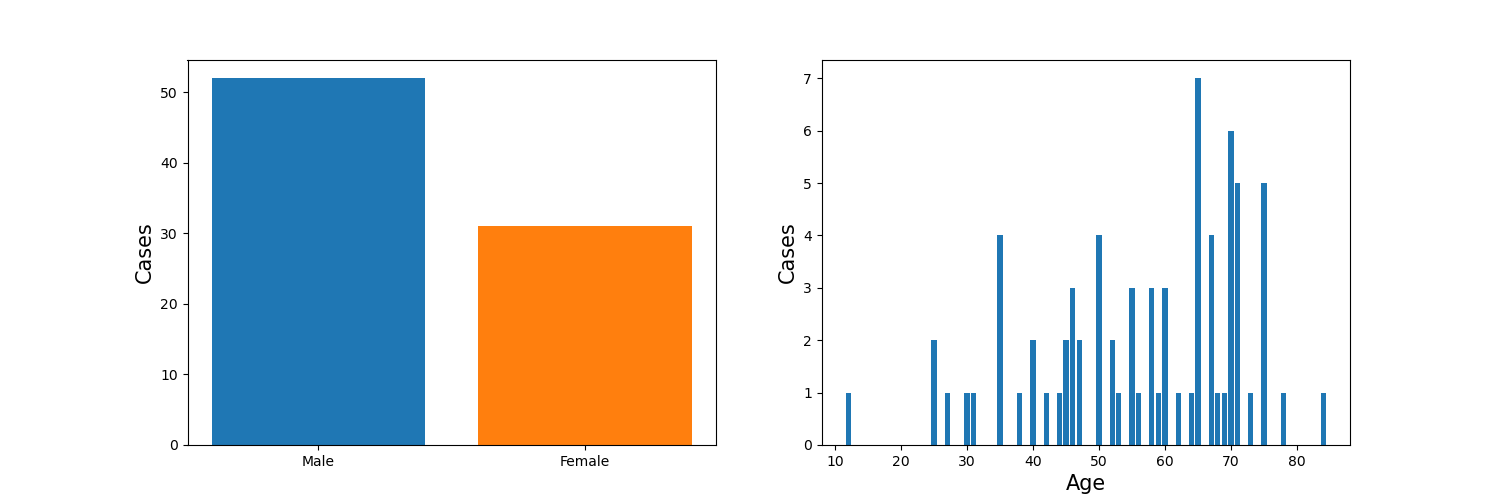
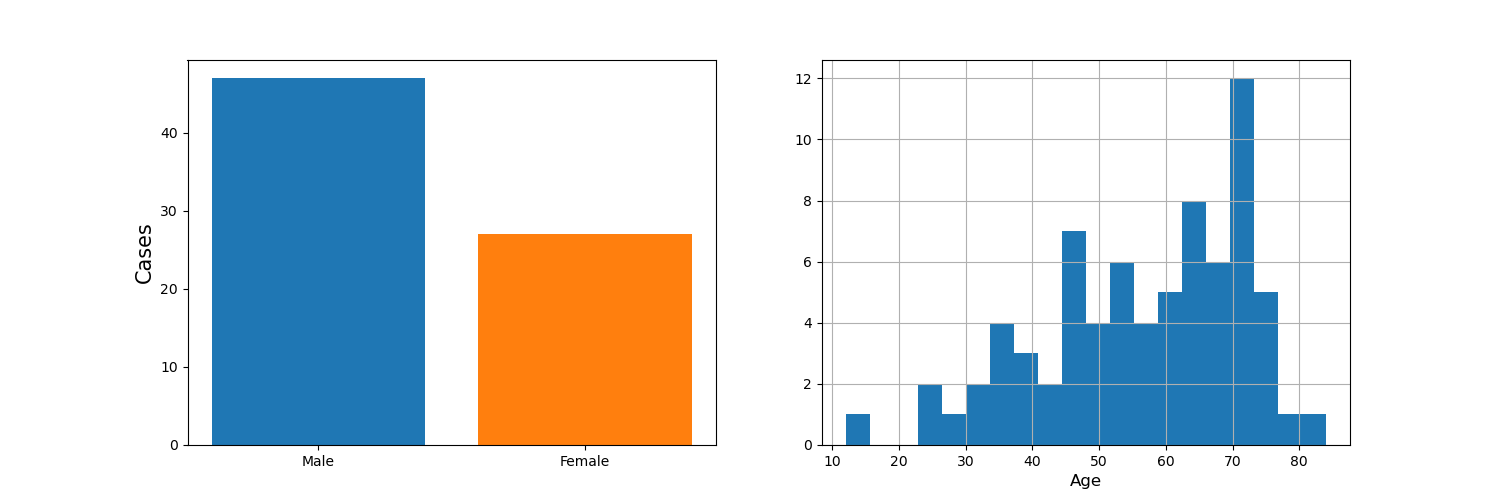
histograms

diff --git a/data_analysis.py b/data_analysis.py
@@ -9,35 +9,43 @@ from matplotlib.ticker import FuncFormatter, MaxNLocator
 from collections import Counter
 
 
+def clean_data(df):
+    df.dropna(inplace=True)
+    assert pd.notnull(df).all().all()
+    print(df.info())
+    print(df.isnull().sum())
+    # print csv features
+    print(df.columns)
+    return df
+
+
 # Read the image list and csv
 images_path = 'images/*.jpg'
 image_files = glob(images_path, recursive=True)
 df = pd.read_csv('metadata.csv')
-df = df[~df.isna()]
 
-# print csv features
-print(df.columns)
+clean_data(df)
 
 colored_imgs = []
 gray_imgs = []
 for im in image_files:
-  image = np.array(Image.open(im))
-  if image.ndim > 2:
-    colored_imgs.append((image.shape[0],image.shape[1], image.shape[2]))
-  else:
-    gray_imgs.append((image.shape[0],image.shape[1], None))
-
+    image = np.array(Image.open(im))
+    if image.ndim > 2:
+        colored_imgs.append((image.shape[0], image.shape[1], image.shape[2]))
+    else:
+        gray_imgs.append((image.shape[0], image.shape[1], None))
 
 data = np.array(colored_imgs + gray_imgs)
 colored_imgs = np.array(colored_imgs)
 gray_imgs = np.array(gray_imgs)
+
 
 print('RGB images {}'.format(len(colored_imgs)))
 print('Grayscale images {}'.format(len(gray_imgs)))
 fig = plt.figure(figsize=(30, 10))
 ax1 = fig.add_subplot(121)
 
-plt.figure(figsize=(30, 10))
+plt.figure(figsize=(15, 5))
 ax1.scatter(colored_imgs[:, 0], colored_imgs[:, 1], c='r', label='RGB Images')
 ax1.scatter(gray_imgs[:, 0], gray_imgs[:, 1], c='gray', label='Grayscale Images')
 ax1.grid()
@@ -47,18 +55,17 @@ ax1.set_title('Images Sizes and dimensions (Pixels)', fontsize=15)
 ax1.legend()
 ax1 = fig.add_subplot(122)
 
-N, edges = np.histogram(data[:, :1], bins=100)
-edges = edges[1:] - (edges[2] - edges[1]) / 2;
-ax1.plot(edges, N)
+ax1.hist(data[:, :1], bins=50)
 ax1.grid()
 ax1.set_xlabel('Image size', fontsize=15)
-ax1.set_ylabel('Num of Images', fontsize=15)
+ax1.set_ylabel('Num of Images (log)', fontsize=15)
 ax1.xaxis.set_major_formatter(FuncFormatter((lambda x, b: '({},{})'.format(int(x), int(x)))))
 ax1.xaxis.set_major_locator(MaxNLocator(integer=True))
 ax1.set_title('Images Sizes distripution', fontsize=15)
+ax1.set_yscale('log')
 plt.savefig('image_sizes.png')
 
-plt.figure(figsize=(15,5))
+plt.figure(figsize=(15, 5))
 plt.subplot(121)
 male_ratio = df[(df["Covid"] == 1) & (df["Sex"] == 'Male')]
 female_ratio = df[(df["Covid"] == 1) & (df["Sex"] == 'Female')]
@@ -66,9 +73,8 @@ plt.bar('Male', male_ratio.shape[0])
 plt.bar('Female', female_ratio.shape[0])
 plt.ylabel('Cases', fontsize=15)
 
-plt.subplot(122)
 covid = df[(df["Covid"] == 1)]
-plt.bar(np.array(covid.groupby('Age')['Age'])[:,0], covid.groupby('Age')['Age'].count())
-plt.xlabel('Age', fontsize=15)
-plt.ylabel('Cases', fontsize=15)
+plt.subplot(122)
+covid['Age'].hist(bins=20)
+plt.xlabel('Age', fontsize=12)
 plt.savefig('features_analysis.png')
